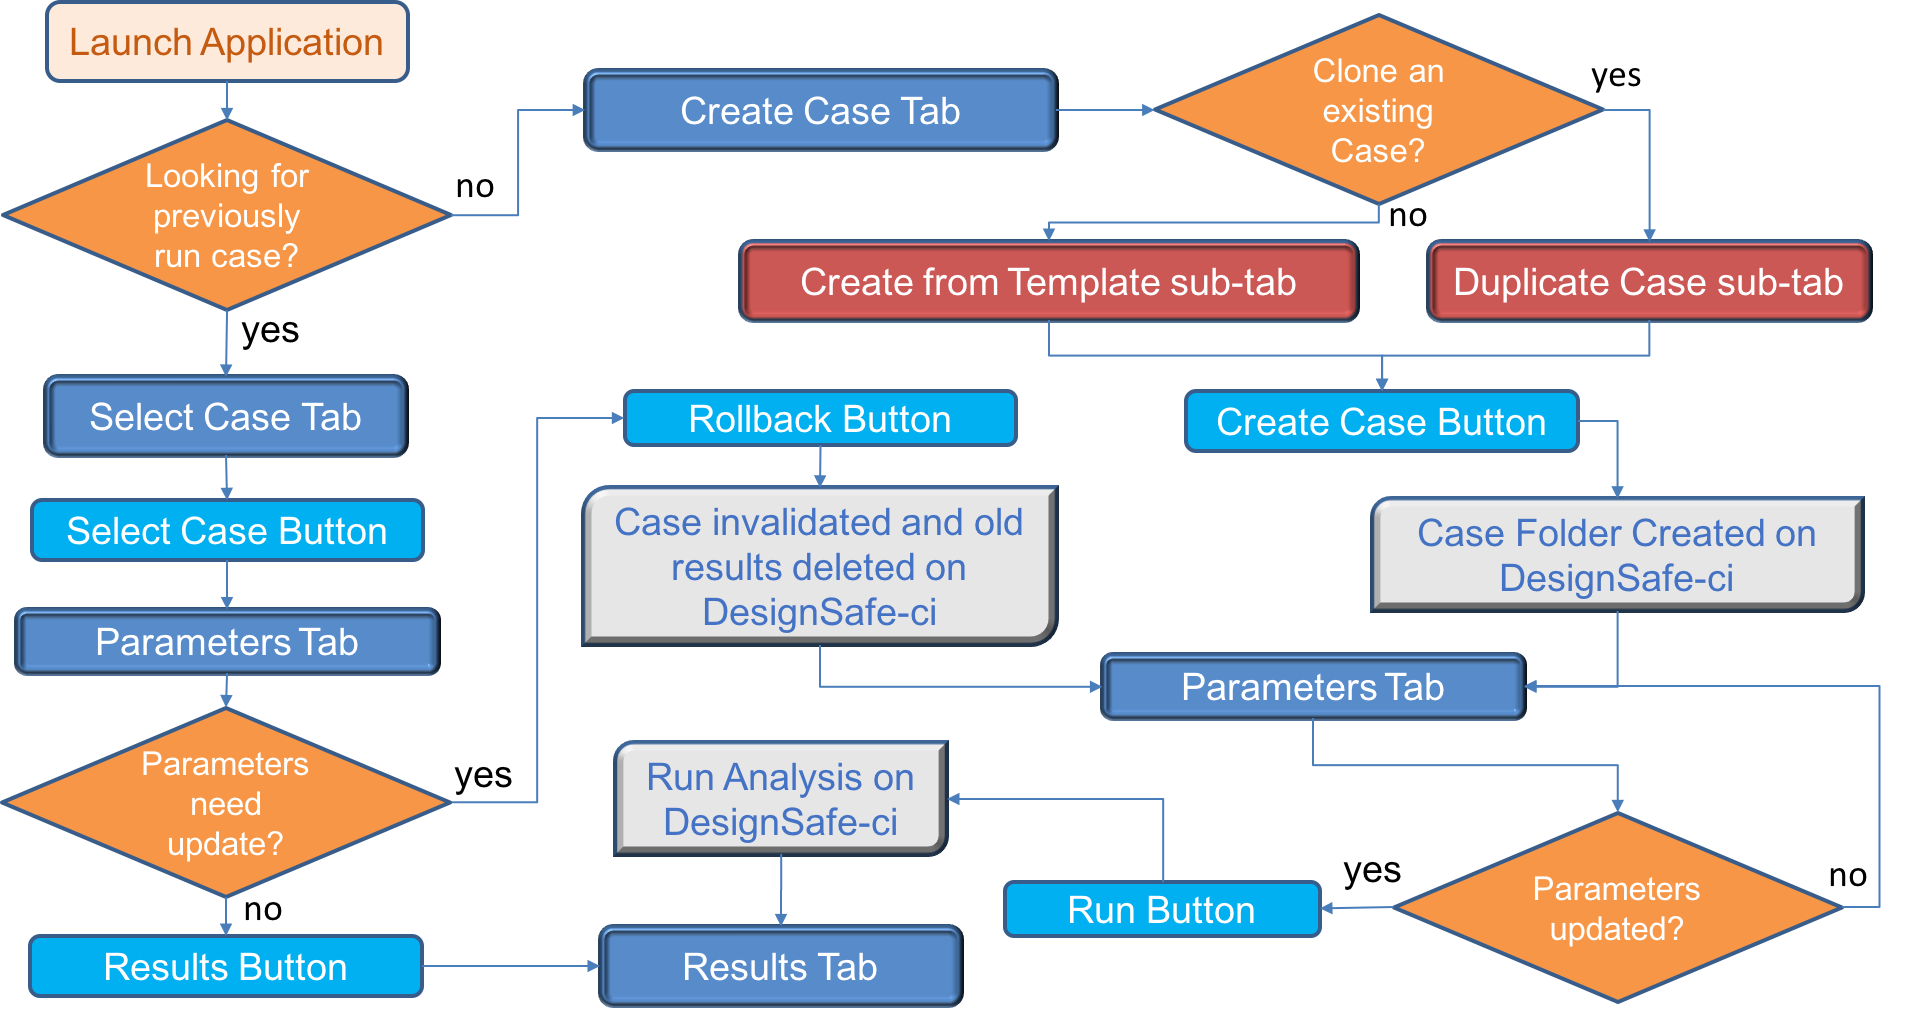
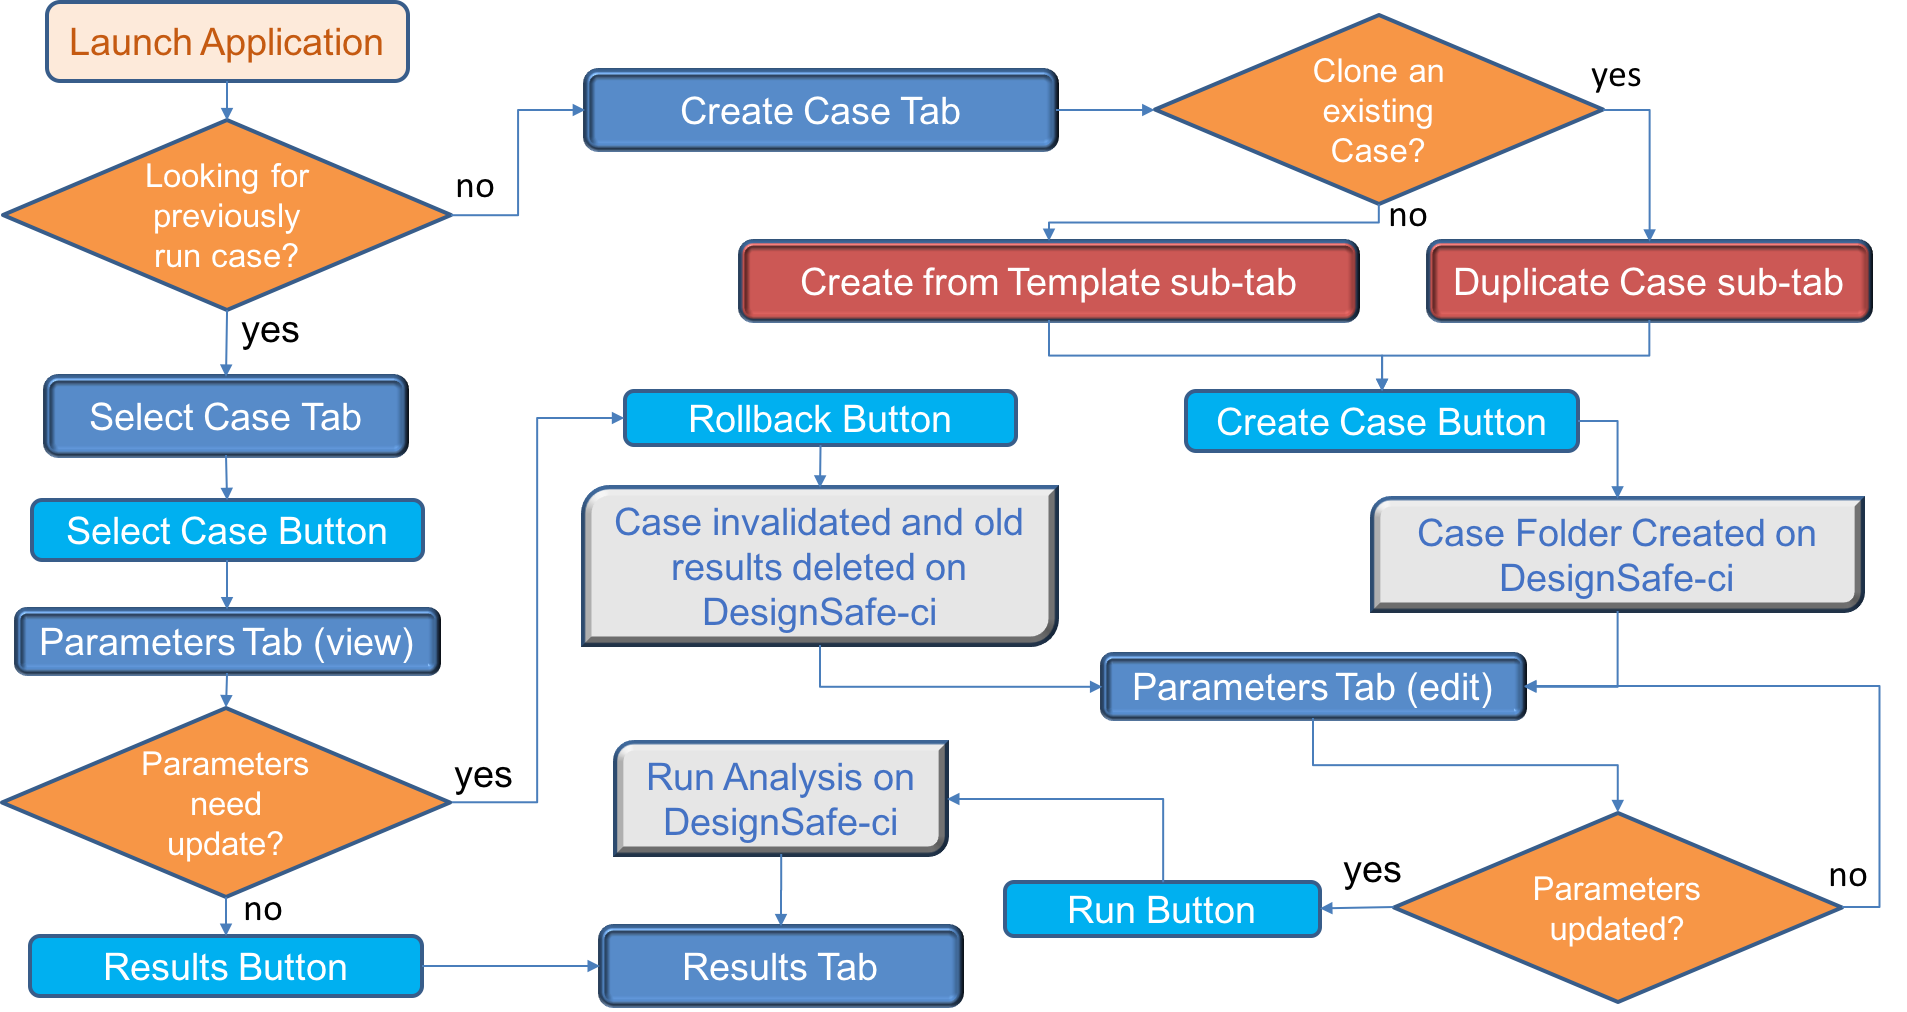
Added detailled work flows

Changed region(s): [[0.0, 0.6126, 0.2166, 0.6739], [0.5878, 0.6433, 0.7735, 0.7045]]

diff --git a/cwe_guiWidgets/cwe_welcome_screen.cpp b/cwe_guiWidgets/cwe_welcome_screen.cpp
@@ -62,10 +62,15 @@ CWE_welcome_screen::CWE_welcome_screen(QWidget *parent) :
     ui->text_label_4->setSizePolicy(QSizePolicy::Ignored, QSizePolicy::Ignored);
     ui->text_label_4->setScaledContents(true);
 
+    ui->text_label_5->setBackgroundRole(QPalette::Base);
+    ui->text_label_5->setSizePolicy(QSizePolicy::Ignored, QSizePolicy::Ignored);
+    ui->text_label_5->setScaledContents(true);
+
     ui->text_label_1->setPixmap(QPixmap(":/images/Overview/CWEFlow1.png"));
     ui->text_label_2->setPixmap(QPixmap(":/images/Overview/CWEFlow2.png"));
-    ui->text_label_3->setPixmap(QPixmap(":/images/Overview/CWEFlow1.png"));
-    ui->text_label_4->setPixmap(QPixmap(":/images/Overview/CWEFlow2.png"));
+    ui->text_label_3->setPixmap(QPixmap(":/images/Overview/CWEFlow3.png"));
+    ui->text_label_4->setPixmap(QPixmap(":/images/Overview/CWEFlow4.png"));
+    ui->text_label_5->setPixmap(QPixmap(":/images/Overview/CWEFlow5.png"));
 
 }
 
@@ -80,7 +85,7 @@ void CWE_welcome_screen::on_commandLinkButton_2_clicked()
 
     int index = ui->WelcomeStackedWidget->currentIndex();
     index--;
-    if (index<0) { index += 4; }
+    if (index<0) { index += 5; }
     ui->WelcomeStackedWidget->setCurrentIndex(index);
 }
 
@@ -90,6 +95,6 @@ void CWE_welcome_screen::on_commandLinkButton_clicked()
 
     int index = ui->WelcomeStackedWidget->currentIndex();
     index++;
-    if (index>3) { index -= 4; }
+    if (index>4) { index -= 5; }
     ui->WelcomeStackedWidget->setCurrentIndex(index);
 }
